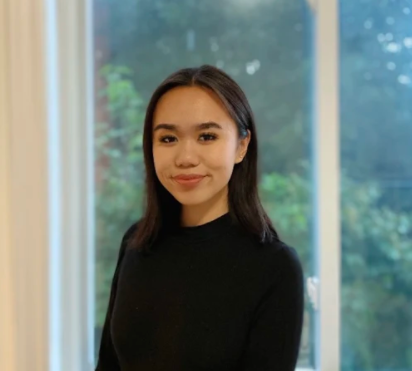
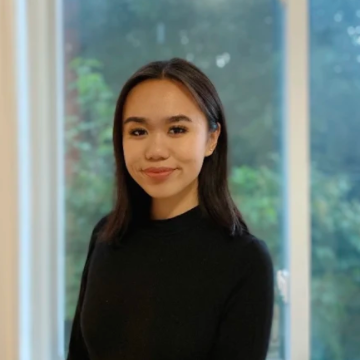
finished about page

diff --git a/public/teamcard.html b/public/teamcard.html
@@ -1,33 +1,155 @@
+<h2>Executives</h2>
+<br>
 <div class="row">
-    <div id="card" type="button" class="col-sm-3 btn btn-primary" data-toggle="modal" data-target="#ayeshaumair">
-        <img src="images/profileplaceholder.png" alt="" width="50%">
-        <p class="name">Ayesha Umair</p>
-        <p class="position">President and Head of Web Development</p>
-    </div>
+  <div id="card" type="button" class="col-sm-3 btn btn-primary" data-toggle="modal" data-target="#ayeshaumair">
+      <img src="images/profileplaceholder.png" alt="" width="50%">
+      <p class="name">Ayesha Umair</p>
+      <p class="position">President and Head of Web Development</p>
+  </div>
 
-    <div id="card" type="button" class="col-sm-3 btn btn-primary" data-toggle="modal" data-target="#catherinefei">
-        <img src="images/catherinefei.PNG" alt="" width="50%">
-        <p class="name">Catherine Fei</p>
-        <p class="position">Head Contributor</p>
-    </div>
+  <div id="card" type="button" class="col-sm-3 btn btn-primary" data-toggle="modal" data-target="#catherinefei">
+      <img src="images/catherinefei.PNG" alt="" width="50%">
+      <p class="name">Catherine Fei</p>
+      <p class="position">Head Contributor</p>
+  </div>
 
-    <div id="card" type="button" class="col-sm-3 btn btn-primary" data-toggle="modal" data-target="#vanessawong">
-        <img src="images/profileplaceholder.png" alt="" width="50%">
-        <p class="name">Vanessa Wong</p>
-        <p class="position">Head Contributor</p>
-    </div>
+  <div id="card" type="button" class="col-sm-3 btn btn-primary" data-toggle="modal" data-target="#vanessawong">
+      <img src="images/Vanessa_Tellura about me - Vanessa Wong.JPG" alt="" width="50%">
+      <p class="name">Vanessa Wong</p>
+      <p class="position">Head Contributor</p>
+  </div>
 
-    <div id="card" type="button" class="col-sm-3 btn btn-primary" data-toggle="modal" data-target="#rosaliewang">
-        <img src="images/profileplaceholder.png" alt="" width="50%">
-        <p class="name">Rosalie Wang</p>
-        <p class="position">Head Designer</p>
-    </div>
+  <div id="card" type="button" class="col-sm-3 btn btn-primary" data-toggle="modal" data-target="#rosaliewang">
+      <img src="images/profileplaceholder.png" alt="" width="50%">
+      <p class="name">Rosalie Wang</p>
+      <p class="position">Head Designer</p>
+  </div>
 
-    <div id="card" type="button" class="col-sm-3 btn btn-primary" data-toggle="modal" data-target="#monica">
-        <img src="images/profileplaceholder.png" alt="" width="50%">
-        <p class="name">Monica Lin</p>
-        <p class="position">Secretary</p>
-    </div>
+  <div id="card" type="button" class="col-sm-3 btn btn-primary" data-toggle="modal" data-target="#monica">
+      <img src="images/profileplaceholder.png" alt="" width="50%">
+      <p class="name">Monica Lin</p>
+      <p class="position">Secretary</p>
+  </div>
+  <div id="card" type="button" class="col-sm-3 btn btn-primary" data-toggle="modal" data-target="#mahsa">
+    <img src="images/Tellura_ Mahsa Gholiof - Mahsa Gholiof.JPG" alt="" width="50%">
+    <p class="name">Mahsa Gholiof</p>
+    <p class="position">Head of Youth Journal</p>
+  </div>
+</div>
+
+<h2>Contributors & Editors</h2>
+<br>
+<div class="row">
+  <div id="card" type="button" class="col-sm-3 btn btn-primary" data-toggle="modal" data-target="#graceyuan">
+    <img src="images/profileplaceholder.png" alt="" width="50%">
+    <p class="name">Grace Yuan</p>
+    <p class="position">Contributor</p>
+  </div>
+  <div id="card" type="button" class="col-sm-3 btn btn-primary" data-toggle="modal" data-target="#abonti">
+    <img src="images/profileplaceholder.png" alt="" width="50%">
+    <p class="name">Abonti Nur Ahmed</p>
+    <p class="position">Contributor</p>
+  </div>
+  <div id="card" type="button" class="col-sm-3 btn btn-primary" data-toggle="modal" data-target="#maha">
+    <img src="images/Maha Chaudhry.jpg" alt="" width="50%">
+    <p class="name">Maha Chaudhry</p>
+    <p class="position">Contributor</p>
+  </div>
+  <div id="card" type="button" class="col-sm-3 btn btn-primary" data-toggle="modal" data-target="#mariyam">
+    <img src="images/profileplaceholder.png" alt="" width="50%">
+    <p class="name">Mariyam Mohammed</p>
+    <p class="position">Contributor</p>
+  </div>
+  <div id="card" type="button" class="col-sm-3 btn btn-primary" data-toggle="modal" data-target="#giles">
+    <img src="images/profileplaceholder.png" alt="" width="50%">
+    <p class="name">Giles Xu</p>
+    <p class="position">Contributor</p>
+  </div>
+  <div id="card" type="button" class="col-sm-3 btn btn-primary" data-toggle="modal" data-target="#niket">
+    <img src="images/profileplaceholder.png" alt="" width="50%">
+    <p class="name">Niket Sampalli</p>
+    <p class="position">Contributor</p>
+  </div>
+  <div id="card" type="button" class="col-sm-3 btn btn-primary" data-toggle="modal" data-target="#jessica">
+    <img src="images/profileplaceholder.png" alt="" width="50%">
+    <p class="name">Jessica Wang</p>
+    <p class="position">Contributor</p>
+  </div>
+  <div id="card" type="button" class="col-sm-3 btn btn-primary" data-toggle="modal" data-target="#amanda">
+    <img src="images/profileplaceholder.png" alt="" width="50%">
+    <p class="name">Amanda Headrick</p>
+    <p class="position">Contributor</p>
+  </div>
+  <div id="card" type="button" class="col-sm-3 btn btn-primary" data-toggle="modal" data-target="#cindy">
+    <img src="images/profileplaceholder.png" alt="" width="50%">
+    <p class="name">Cindy Zhang</p>
+    <p class="position">Contributor</p>
+  </div>
+  <div id="card" type="button" class="col-sm-3 btn btn-primary" data-toggle="modal" data-target="#jenny">
+    <img src="images/profileplaceholder.png" alt="" width="50%">
+    <p class="name">Jenny Chau</p>
+    <p class="position">Contributor</p>
+  </div>
+  <div id="card" type="button" class="col-sm-3 btn btn-primary" data-toggle="modal" data-target="#karena">
+    <img src="images/profileplaceholder.png" alt="" width="50%">
+    <p class="name">Karena So</p>
+    <p class="position">Contributor</p>
+  </div>
+  <div id="card" type="button" class="col-sm-3 btn btn-primary" data-toggle="modal" data-target="#emma">
+    <img src="images/profileplaceholder.png" alt="" width="50%">
+    <p class="name">Emma Hoglund</p>
+    <p class="position">Editor</p>
+  </div>
+  <div id="card" type="button" class="col-sm-3 btn btn-primary" data-toggle="modal" data-target="#gurdial">
+    <img src="images/profileplaceholder.png" alt="" width="50%">
+    <p class="name">Gurdial Gill</p>
+    <p class="position">Editor</p>
+  </div>
+</div>
+
+<h2>Youth Journal</h2>
+<br>
+<div class="row">
+  <div id="card" type="button" class="col-sm-3 btn btn-primary" data-toggle="modal" data-target="#chelsea">
+    <img src="images/chelseashi.PNG" alt="" width="50%">
+    <p class="name">Chelsea Shi</p>
+    <p class="position">Journal Editor</p>
+  </div>
+  <div id="card" type="button" class="col-sm-3 btn btn-primary" data-toggle="modal" data-target="#hamda">
+    <img src="images/profileplaceholder.png" alt="" width="50%">
+    <p class="name">Hamda Altaf</p>
+    <p class="position">Journal Editor</p>
+  </div>
+  <div id="card" type="button" class="col-sm-3 btn btn-primary" data-toggle="modal" data-target="#manvir">
+    <img src="images/668DF138-9C46-4FB5-B92F-58CE17D2633D - Manvir Chima.JPG" alt="" width="50%">
+    <p class="name">Manvir Chima</p>
+    <p class="position">Journal Editor</p>
+  </div>
+  <div id="card" type="button" class="col-sm-3 btn btn-primary" data-toggle="modal" data-target="#sarah">
+    <img src="images/Sarah Dimatteo.jpeg" alt="" width="50%">
+    <p class="name">Sarah DiMatteo</p>
+    <p class="position">Journal Editor</p>
+  </div>
+  <div id="card" type="button" class="col-sm-3 btn btn-primary" data-toggle="modal" data-target="#alyssa">
+    <img src="images/profileplaceholder.png" alt="" width="50%">
+    <p class="name">Alyssa Murdoch</p>
+    <p class="position">Journal Editor</p>
+  </div>
+</div>
+
+<h2>Social Media</h2>
+<br>
+<div class="row">
+  <div id="card" type="button" class="col-sm-3 btn btn-primary" data-toggle="modal" data-target="#maggie">
+    <img src="images/profileplaceholder.png" alt="" width="50%">
+    <p class="name">Maggie Lu</p>
+    <p class="position">Social Media Coordinator</p>
+  </div>
+  <div id="card" type="button" class="col-sm-3 btn btn-primary" data-toggle="modal" data-target="#mansi">
+    <img src="images/profileplaceholder.png" alt="" width="50%">
+    <p class="name">Mansi Patel</p>
+    <p class="position">Social Media Coordinator</p>
+  </div>
 </div>
 
 <div class="modal fade" id="ayeshaumair" tabindex="-1" role="dialog" aria-labelledby="exampleModalCenterTitle" aria-hidden="true">
@@ -76,9 +198,9 @@
           </button>
         </div>
         <div class="modal-body">
-          <img src="images/profileplaceholder.png" alt="" width="50%" class="center">
+          <img src="images/Vanessa_Tellura about me - Vanessa Wong.JPG" alt="" width="50%" class="center">
           <p class="position">Head Contributor</p>
-          <p></p>
+          <p>Hey, I'm Vanessa, one of the Head Contributors! I oversee all the blog posts that get posted to the website. Science communication has always been one of my interests, and Tellura is a great initiative that allows me to practice it! Besides that, I'm a pretty laid back person that likes watching movies and chilling with my cat, Theodore. Hopefully you learn something new while you're here, and thanks for visiting!</p>
         </div>
       </div>
     </div>
@@ -118,4 +240,112 @@
         </div>
       </div>
     </div>
+</div>
+
+<div class="modal fade" id="mahsa" tabindex="-1" role="dialog" aria-labelledby="exampleModalCenterTitle" aria-hidden="true">
+  <div class="modal-dialog modal-dialog-centered" role="document">
+    <div class="modal-content">
+      <div class="modal-header">
+        <p class="name">Mahsa Gholiof</p>
+        <button type="button" class="close" data-dismiss="modal" aria-label="Close">
+          <span aria-hidden="true">&times;</span>
+        </button>
+      </div>
+      <div class="modal-body">
+        <img src="images/Tellura_ Mahsa Gholiof - Mahsa Gholiof.JPG" alt="" width="50%" class="center">
+        <p class="position">Head of Youth Journal</p>
+        <p>Hi, my name is Mahsa. I am in my fifth year of honours Life Sciences at McMaster University. I've always been passionate about research and science communication. My research focus involves finding the mechanism underlying Idiopathic Pulmonary Fibrosis (IPF). I am a firm believer that science thrives through communication. Effective science communication builds support for science, promotes understanding of its wider relevance to society, and encourages more informed decision-making at all levels. As Tellura's Head of Youth Journal, I want to help with making science literature more accessible for younger students.  </p>
+      </div>
+    </div>
+  </div>
+</div>
+
+<div class="modal fade" id="chelsea" tabindex="-1" role="dialog" aria-labelledby="exampleModalCenterTitle" aria-hidden="true">
+  <div class="modal-dialog modal-dialog-centered" role="document">
+    <div class="modal-content">
+      <div class="modal-header">
+        <p class="name">Chelsea Shi</p>
+        <button type="button" class="close" data-dismiss="modal" aria-label="Close">
+          <span aria-hidden="true">&times;</span>
+        </button>
+      </div>
+      <div class="modal-body">
+        <img src="images/chelseashi.PNG" alt="" width="50%" class="center">
+        <p class="position">Journal Editor</p>
+        <p></p>
+      </div>
+    </div>
+  </div>
+</div>
+
+<div class="modal fade" id="karena" tabindex="-1" role="dialog" aria-labelledby="exampleModalCenterTitle" aria-hidden="true">
+  <div class="modal-dialog modal-dialog-centered" role="document">
+    <div class="modal-content">
+      <div class="modal-header">
+        <p class="name">Karena So</p>
+        <button type="button" class="close" data-dismiss="modal" aria-label="Close">
+          <span aria-hidden="true">&times;</span>
+        </button>
+      </div>
+      <div class="modal-body">
+        <img src="images/profileplaceholder.png" alt="" width="50%" class="center">
+        <p class="position">Contributor</p>
+        <p>Karena is a second-year undergraduate student studying biology and psychology, neuroscience and behaviour at McMaster University. She is highly passionate about research and advocacy for the scientific community. In her free time, she enjoys playing the ukulele, journaling, and spending time with friends and family. Through Tellura, Karena hopes to combine her interests in science and writing to provide accessible resources for students who wish to learn about scientific research.</p>
+      </div>
+    </div>
+  </div>
+</div>
+
+<div class="modal fade" id="maha" tabindex="-1" role="dialog" aria-labelledby="exampleModalCenterTitle" aria-hidden="true">
+  <div class="modal-dialog modal-dialog-centered" role="document">
+    <div class="modal-content">
+      <div class="modal-header">
+        <p class="name">Maha Chaudhry</p>
+        <button type="button" class="close" data-dismiss="modal" aria-label="Close">
+          <span aria-hidden="true">&times;</span>
+        </button>
+      </div>
+      <div class="modal-body">
+        <img src="images/Maha Chaudhry.jpg" alt="" width="50%" class="center">
+        <p class="position">Contributor</p>
+        <p>I am enrolled in level 2 of Chemical Engineering and Management. My hobbies include biking, knitting, and designing giant virtual 3D mazes! </p>
+      </div>
+    </div>
+  </div>
+</div>
+
+<div class="modal fade" id="sarah" tabindex="-1" role="dialog" aria-labelledby="exampleModalCenterTitle" aria-hidden="true">
+  <div class="modal-dialog modal-dialog-centered" role="document">
+    <div class="modal-content">
+      <div class="modal-header">
+        <p class="name">Sarah DiMatteo</p>
+        <button type="button" class="close" data-dismiss="modal" aria-label="Close">
+          <span aria-hidden="true">&times;</span>
+        </button>
+      </div>
+      <div class="modal-body">
+        <img src="images/Sarah Dimatteo.jpeg" alt="" width="50%" class="center">
+        <p class="position">Journal Editor</p>
+        <p>Hello! I am in my third year of Life Science at McMaster and very excited to be a member of this incredible team. I love all things science and cannot wait to share my passion with youth interested in learning about scientific research. I look forward to a great year and can't wait to share our work with you! </p>
+      </div>
+    </div>
+  </div>
+</div>
+
+<div class="modal fade" id="manvir" tabindex="-1" role="dialog" aria-labelledby="exampleModalCenterTitle" aria-hidden="true">
+  <div class="modal-dialog modal-dialog-centered" role="document">
+    <div class="modal-content">
+      <div class="modal-header">
+        <p class="name">Manvir Chima</p>
+        <button type="button" class="close" data-dismiss="modal" aria-label="Close">
+          <span aria-hidden="true">&times;</span>
+        </button>
+      </div>
+      <div class="modal-body">
+        <img src="images/668DF138-9C46-4FB5-B92F-58CE17D2633D - Manvir Chima.JPG" alt="" width="50%" class="center">
+        <p class="position">Journal Editor</p>
+        <p>Hey everyone! I'm Manvir and I am one of the youth journal editors in Tellura. I'm in my third year of Honours Life Science and I am doing a minor in psychology. I love to read and shop, and my favourite show is Prison Break! </p>
+      </div>
+    </div>
+  </div>
 </div>
